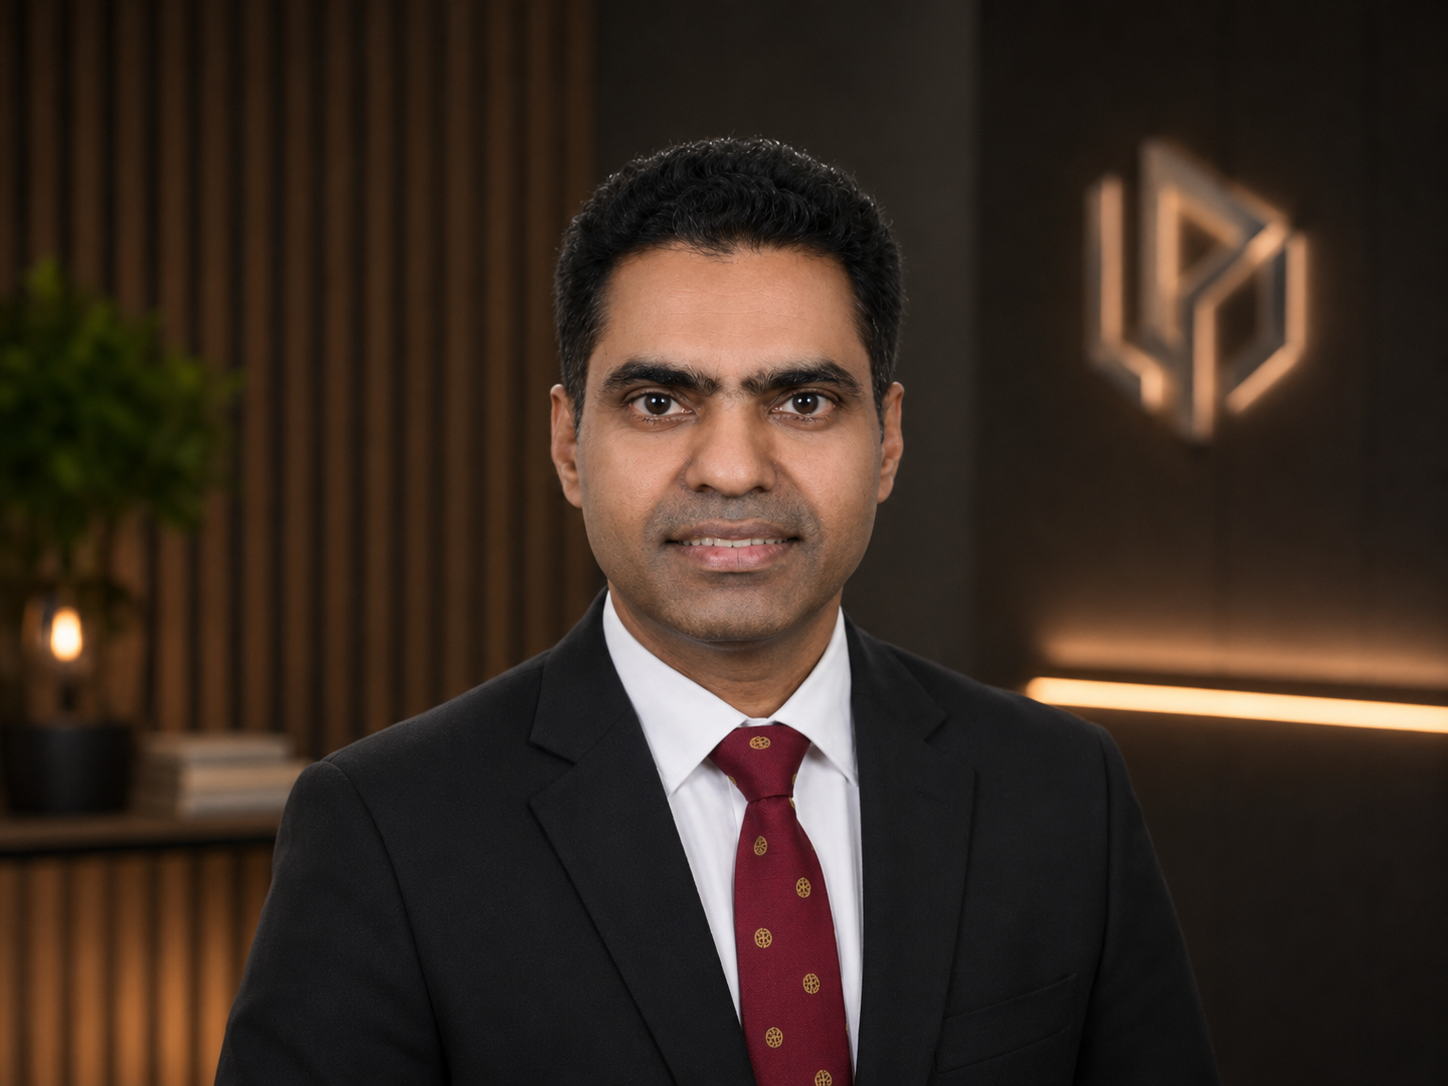
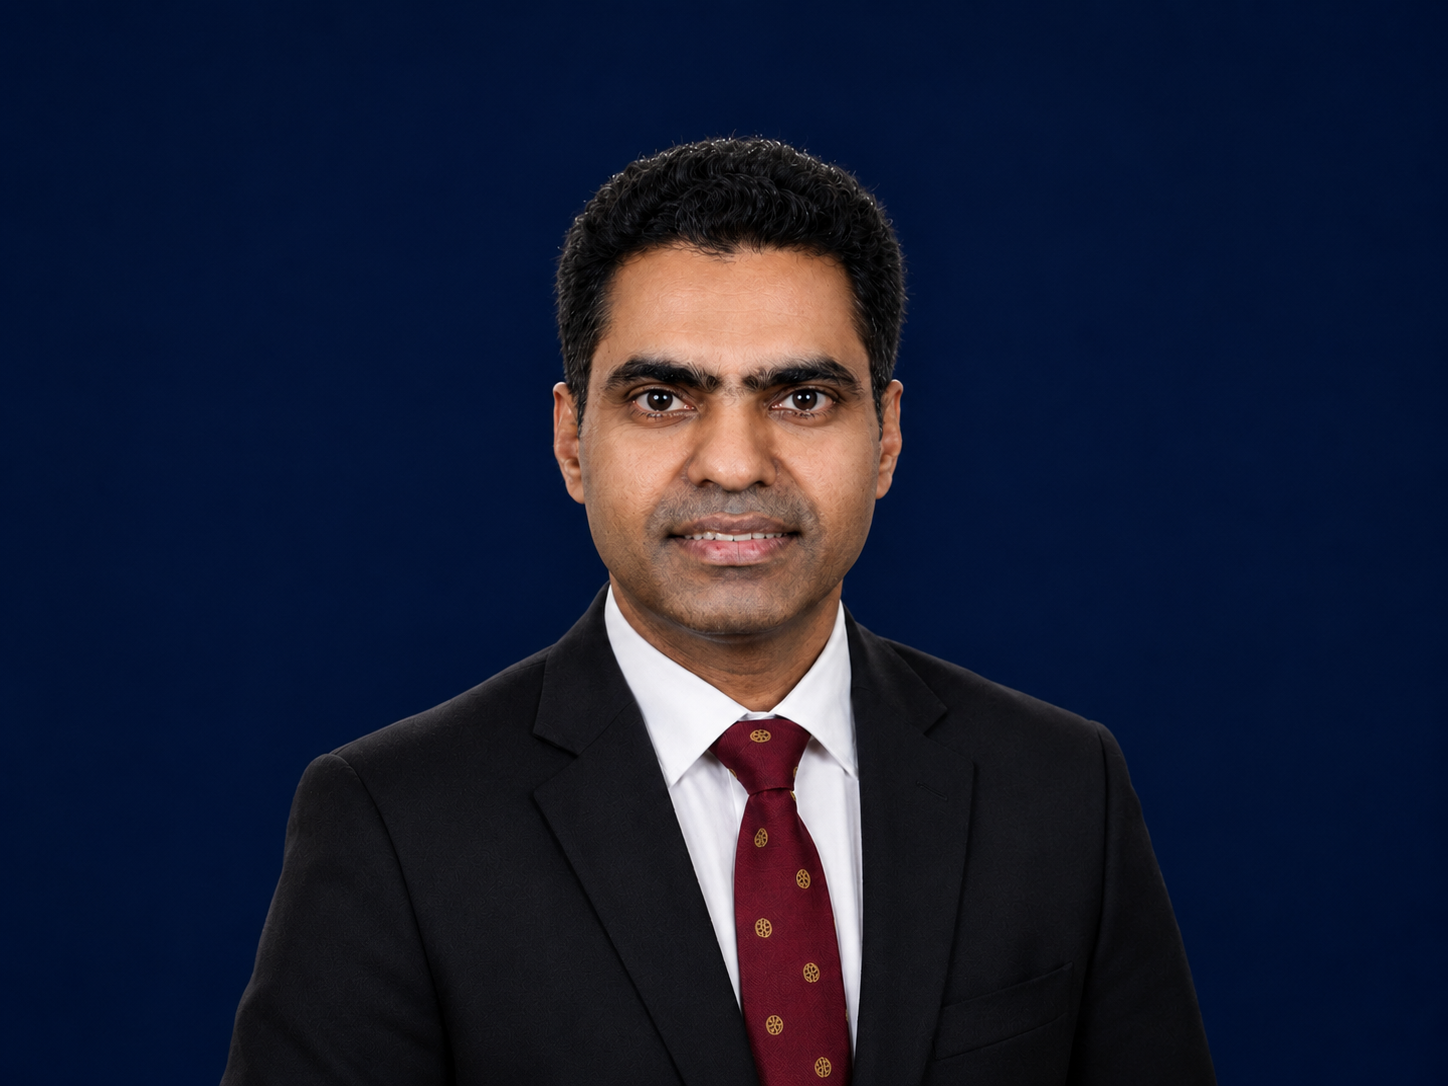
Foudners pictures updated

diff --git a/components/sections/home/final-cta-section.tsx b/components/sections/home/final-cta-section.tsx
@@ -1,13 +1,88 @@
 "use client";
 
-import { ArrowUpRight } from "lucide-react";
+import {
+  ArrowRight,
+  Boxes,
+  Cloud,
+  Database,
+  ShieldCheck,
+  Workflow,
+  type LucideIcon,
+} from "lucide-react";
 import { motion } from "motion/react";
 import { usePrefersReducedMotion } from "@/components/providers/motion-provider";
-import { Background3DShapes } from "@/components/motion/background-3d-shapes";
 import { Button } from "@/components/ui/button";
 import { Container } from "@/components/ui/container";
 
 const ease = [0.22, 1, 0.36, 1] as const;
+
+type Capability = {
+  label: string;
+  Icon: LucideIcon;
+  className: string;
+  drift: { x: number[]; y: number[]; rotate: number[] };
+};
+
+const capabilities: Capability[] = [
+  {
+    label: "Cloud Solutions",
+    Icon: Cloud,
+    className: "left-[2%] top-[19%] h-32 w-32 sm:left-[7%] sm:h-40 sm:w-40",
+    drift: { x: [0, 10, 0], y: [0, -12, 0], rotate: [-8, -2, -8] },
+  },
+  {
+    label: "Cyber Security",
+    Icon: ShieldCheck,
+    className: "right-[6%] top-[6%] h-36 w-36 sm:right-[9%] sm:h-44 sm:w-44",
+    drift: { x: [0, -10, 0], y: [0, 12, 0], rotate: [8, 14, 8] },
+  },
+  {
+    label: "ERP Systems",
+    Icon: Boxes,
+    className: "bottom-[6%] left-[13%] h-32 w-32 sm:bottom-[9%] sm:left-[20%] sm:h-44 sm:w-44",
+    drift: { x: [0, 12, 0], y: [0, 10, 0], rotate: [-12, -5, -12] },
+  },
+  {
+    label: "Data Management",
+    Icon: Database,
+    className: "bottom-[11%] right-[28%] h-32 w-32 sm:bottom-[17%] sm:right-[31%] sm:h-40 sm:w-40",
+    drift: { x: [0, -8, 0], y: [0, -14, 0], rotate: [6, 12, 6] },
+  },
+  {
+    label: "IT Automation",
+    Icon: Workflow,
+    className: "left-[39%] top-[8%] h-28 w-28 sm:left-[43%] sm:top-[4%] sm:h-36 sm:w-36",
+    drift: { x: [0, 7, 0], y: [0, -9, 0], rotate: [-4, 4, -4] },
+  },
+];
+
+function CapabilityCube({ capability, index, reducedMotion }: { capability: Capability; index: number; reducedMotion: boolean }) {
+  const { Icon } = capability;
+
+  return (
+    <motion.div
+      className={`absolute hidden rounded-[1.7rem] border border-blue-300/55 bg-[linear-gradient(145deg,rgb(255_255_255_/_84%),rgb(212_232_255_/_34%))] p-4 shadow-[0_22px_46px_rgb(23_105_224_/_15%),inset_1px_1px_0_rgb(255_255_255_/_92%),inset_-10px_-12px_26px_rgb(23_105_224_/_9%)] backdrop-blur-md sm:block ${capability.className}`}
+      initial={reducedMotion ? false : { opacity: 0, scale: 0.78, rotateX: 18, y: 24 }}
+      whileInView={{ opacity: 1, scale: 1, rotateX: 0, y: 0 }}
+      viewport={{ once: true, amount: 0.25 }}
+      animate={reducedMotion ? undefined : capability.drift}
+      transition={{
+        opacity: { duration: 0.55, delay: index * 0.08, ease },
+        scale: { duration: 0.55, delay: index * 0.08, ease },
+        rotateX: { duration: 0.55, delay: index * 0.08, ease },
+        y: { duration: 0.55, delay: index * 0.08, ease },
+        x: { duration: 6.5 + index * 0.65, repeat: Infinity, ease: "easeInOut" },
+        rotate: { duration: 6.5 + index * 0.65, repeat: Infinity, ease: "easeInOut" },
+      }}
+      style={{ transformPerspective: 900, transformStyle: "preserve-3d" }}
+    >
+      <span aria-hidden="true" className="absolute inset-x-5 top-0 h-px bg-gradient-to-r from-transparent via-blue-500/80 to-transparent" />
+      <span aria-hidden="true" className="absolute -right-3 -top-3 size-10 rounded-xl border border-blue-300/40 bg-white/35 blur-[0.2px]" />
+      <Icon aria-hidden="true" className="size-7 text-[var(--color-blue-600)]" strokeWidth={1.6} />
+      <span className="mt-3 block text-xs font-semibold leading-tight text-[var(--color-navy-900)]">{capability.label}</span>
+    </motion.div>
+  );
+}
 
 export function FinalCtaSection({
   lightOnMobile = false,
@@ -19,94 +94,87 @@ export function FinalCtaSection({
   return (
     <section
       aria-labelledby="final-cta-heading"
-      className={`relative isolate overflow-hidden bg-[linear-gradient(180deg,var(--color-navy-950),var(--color-navy-900))] py-16 md:py-24 ${lightOnMobile ? "about-mobile-light-surface" : ""}`}
+      className={`relative isolate overflow-hidden bg-white py-16 text-[var(--color-navy-900)] sm:py-20 lg:py-28 ${lightOnMobile ? "about-mobile-light-surface" : ""}`}
     >
-      <video
-        aria-hidden="true"
-        autoPlay
-        loop
-        muted
-        playsInline
-        preload="metadata"
-        src="/contact_video.mp4"
-        className="pointer-events-none absolute inset-0 h-full w-full object-cover object-center opacity-80 saturate-[1.08]"
-      />
-      <div
-        aria-hidden="true"
-        className="pointer-events-none absolute inset-0 bg-[linear-gradient(135deg,rgb(5_11_24_/_84%),rgb(7_27_54_/_70%),rgb(5_11_24_/_88%))]"
-      />
-      <Background3DShapes
-        variant="orbits"
-        intensity="medium"
-        className={`opacity-70 max-md:opacity-28 ${lightOnMobile ? "max-md:opacity-12" : ""}`}
-      />
-      <Background3DShapes
-        variant="geometry"
-        intensity="subtle"
-        className={`opacity-50 max-md:opacity-18 ${lightOnMobile ? "max-md:opacity-10" : ""}`}
-      />
-      <motion.span
-        aria-hidden="true"
-        className="pointer-events-none absolute -left-12 top-10 size-36 rounded-[42%] border border-accent/30 bg-accent/[0.06] shadow-[inset_10px_10px_28px_rgb(255_255_255_/_10%),inset_-12px_-12px_32px_rgb(83_50_4_/_26%),0_0_44px_rgb(201_154_50_/_15%)]"
-        animate={reducedMotion ? undefined : { x: [0, 20, 0], y: [0, 16, 0], rotate: [0, 13, 0] }}
-        transition={{ duration: 8, ease: "easeInOut", repeat: Infinity }}
-      />
-      <motion.span
-        aria-hidden="true"
-        className="pointer-events-none absolute -right-16 bottom-0 size-48 rounded-full border border-accent/25 bg-[radial-gradient(circle_at_32%_28%,rgb(255_239_184_/_18%),rgb(201_154_50_/_5%)_48%,transparent_70%)]"
-        animate={reducedMotion ? undefined : { x: [0, -18, 0], y: [0, -22, 0], scale: [1, 1.08, 1] }}
-        transition={{ duration: 9, ease: "easeInOut", repeat: Infinity }}
-      />
-      <motion.svg
-        aria-hidden="true"
-        viewBox="0 0 1200 280"
-        preserveAspectRatio="none"
-        className="pointer-events-none absolute inset-x-0 bottom-0 h-36 text-accent/30"
-      >
-        <motion.path
-          d="M0 208C174 208 210 74 428 120s264 144 430 45 236-61 342-75"
-          fill="none"
-          stroke="currentColor"
-          strokeWidth="1.5"
-          initial={reducedMotion ? false : { pathLength: 0, opacity: 0 }}
-          whileInView={{ pathLength: 1, opacity: 1 }}
-          viewport={{ once: false, amount: 0.2 }}
-          transition={{ duration: reducedMotion ? 0 : 1.1, ease }}
-        />
-      </motion.svg>
+      <div aria-hidden="true" className="absolute inset-0 bg-[radial-gradient(circle_at_8%_24%,rgb(131_185_255_/_28%),transparent_27%),radial-gradient(circle_at_86%_58%,rgb(47_130_245_/_16%),transparent_33%),linear-gradient(135deg,#fff_22%,rgb(239_247_255)_56%,#fff)]" />
+      <div aria-hidden="true" className="absolute inset-0 opacity-40 [background-image:linear-gradient(rgb(23_105_224_/_7%)_1px,transparent_1px),linear-gradient(90deg,rgb(23_105_224_/_7%)_1px,transparent_1px)] [background-size:44px_44px] [mask-image:radial-gradient(ellipse_at_center,black,transparent_72%)]" />
+
+      <svg aria-hidden="true" viewBox="0 0 1200 560" preserveAspectRatio="none" className="pointer-events-none absolute inset-0 h-full w-full text-blue-500/25">
+        <path d="M600 48 800 180 992 96M600 48 414 188 182 126M600 48v236m0 0 222 128 183-76m-405-53L362 430l-174-80" fill="none" stroke="currentColor" strokeWidth="1" />
+        {["600,48", "800,180", "414,188", "600,284", "822,412", "362,430"].map((point) => {
+          const [cx, cy] = point.split(",");
+          return <circle key={point} cx={cx} cy={cy} r="4" fill="currentColor" />;
+        })}
+      </svg>
+
+      <div aria-hidden="true" className="pointer-events-none absolute right-[9%] top-[15%] size-3 rounded-full bg-blue-500/70 shadow-[0_0_26px_rgb(47_130_245_/_75%)]" />
+      <div aria-hidden="true" className="pointer-events-none absolute bottom-[20%] right-[46%] size-2 rounded-full bg-blue-300 shadow-[0_0_22px_rgb(131_185_255_/_90%)]" />
 
       <Container size="wide" className="relative">
-        <motion.div
-          initial={reducedMotion ? false : { opacity: 0, y: 42, rotateX: 7, scale: 0 }}
-          whileInView={{ opacity: 1, y: 0, rotateX: 0, scale: 1 }}
-          viewport={{ once: false, amount: 0.3 }}
-          transition={{ duration: reducedMotion ? 0 : 0.72, ease }}
-          className="about-mobile-dark-card relative overflow-hidden rounded-[2rem] border border-accent/25  sm:px-10 md:px-14 md:py-14"
-          style={{ transformPerspective: 1200, transformOrigin: "50% 60%" }}
-        >
-          <div aria-hidden="true" className="absolute right-[18%] top-0 h-px w-24 bg-[linear-gradient(90deg,transparent,var(--color-gold-300),transparent)]" />
-          <div className="relative grid gap-8 lg:grid-cols-[1fr_auto] lg:items-end lg:gap-14">
-            <div>
-              <p className="text-sm font-semibold uppercase tracking-[0.2em] text-accent">
-                Ready to go digital?
-              </p>
-              <h2 id="final-cta-heading" className="mt-4 max-w-2xl text-[clamp(2.4rem,5vw,4.75rem)]">
-                Let&apos;s discuss.
-              </h2>
-              <p className="mt-5 max-w-xl text-base leading-relaxed text-blue-200 sm:text-lg">
-                Share your next challenge with InnovGen and we&apos;ll help shape a secure, scalable way forward.
-              </p>
+        <div className="grid items-center gap-12 lg:grid-cols-[minmax(0,0.86fr)_minmax(30rem,1.14fr)] lg:gap-8">
+          <motion.div
+            initial={reducedMotion ? false : { opacity: 0, y: 26 }}
+            whileInView={{ opacity: 1, y: 0 }}
+            viewport={{ once: true, amount: 0.3 }}
+            transition={{ duration: reducedMotion ? 0 : 0.62, ease }}
+            className="relative z-10 max-w-xl"
+          >
+            <p className="text-sm font-bold uppercase tracking-[0.2em] text-[var(--color-blue-600)]">Ready to go digital?</p>
+            <h2 id="final-cta-heading" className="mt-4 font-[family-name:var(--font-outfit)] text-5xl font-semibold tracking-[-0.05em] text-[var(--color-navy-900)] sm:text-6xl lg:text-7xl">
+              Let&apos;s discuss.
+            </h2>
+            <p className="mt-5 max-w-lg text-base leading-7 text-[color-mix(in_srgb,var(--color-navy-900)_72%,white)] sm:text-lg">
+              Share your next technology challenge with InnovGen. Together, we&apos;ll turn it into a secure, scalable way forward.
+            </p>
+            <div className="mt-8 flex flex-wrap gap-3">
+             
+              <Button href="/consultation" variant="secondary" size="lg" className=" border-blue-300/70 bg-white/65 text-[var(--color-navy-900)] shadow-[inset_0_1px_0_rgb(255_255_255_/_92%),0_10px_24px_rgb(23_105_224_/_8%)] backdrop-blur-md   hover:text-white hover:shadow-[inset_0_1px_0_rgb(255_255_255_/_92%),0_10px_24px_rgb(23_105_224_/_12%)] focus-visible:outline-blue-500/70 focus-visible:ring-2 focus-visible:ring-blue-500/70 focus-visible:ring-offset-2 focus-visible:ring-offset-white/70 dark:border-blue-300/50 dark:bg-white/20 dark:text-white dark:shadow-[inset_0_1px_0_rgb(255_255_255_/_32%),0_10px_24px_rgb(23_105_224_/_8%)]  dark:hover:text-white  ">
+               Let Go digital
+                                <ArrowRight aria-hidden="true" className="size-4 transition-transform group-hover:translate-x-1" />
+
+              </Button> 
             </div>
-            <Button
-              href="/consultation"
-              size="lg"
-              className="group w-fit border border-accent/35 bg-[var(--color-gold-500)] text-[var(--color-navy-950)] shadow-[0_14px_34px_rgb(201_154_50_/_22%),inset_0_1px_0_rgb(255_255_255_/_32%)] hover:bg-[var(--color-gold-300)]"
-            >
-              Request a quote
-              <ArrowUpRight aria-hidden="true" className="size-4 transition-transform group-hover:translate-x-0.5 group-hover:-translate-y-0.5" />
-            </Button>
-          </div>
-        </motion.div>
+          </motion.div>
+
+          <motion.div
+            initial={reducedMotion ? false : { opacity: 0, scale: 0.94, rotateX: 5 }}
+            whileInView={{ opacity: 1, scale: 1, rotateX: 0 }}
+            viewport={{ once: true, amount: 0.2 }}
+            transition={{ duration: reducedMotion ? 0 : 0.75, delay: 0.08, ease }}
+            className="relative mx-auto h-[23rem] w-full max-w-[42rem] [perspective:1000px] sm:h-[29rem]"
+          >
+            <div aria-hidden="true" className="absolute inset-[19%_14%_17%] rounded-full bg-[radial-gradient(circle,rgb(47_130_245_/_20%),transparent_67%)] blur-2xl" />
+            {capabilities.map((capability, index) => (
+              <CapabilityCube key={capability.label} capability={capability} index={index} reducedMotion={reducedMotion} />
+            ))}
+            <div className="absolute inset-0 grid place-items-center sm:hidden">
+              <div className="grid w-full grid-cols-2 gap-3 px-3">
+                {capabilities.map(({ label, Icon }, index) => (
+                  <motion.div
+                    key={label}
+                    initial={reducedMotion ? false : { opacity: 0, y: 16 }}
+                    whileInView={{ opacity: 1, y: 0 }}
+                    viewport={{ once: true }}
+                    transition={{ duration: reducedMotion ? 0 : 0.4, delay: index * 0.06, ease }}
+                    className="rounded-2xl border border-blue-300/55 bg-white/70 p-4 shadow-[0_12px_28px_rgb(23_105_224_/_10%),inset_1px_1px_0_rgb(255_255_255_/_92%)] backdrop-blur"
+                  >
+                    <Icon aria-hidden="true" className="size-6 text-[var(--color-blue-600)]" strokeWidth={1.6} />
+                    <p className="mt-3 text-sm font-semibold text-[var(--color-navy-900)]">{label}</p>
+                  </motion.div>
+                ))}
+              </div>
+            </div>
+            {["left-[11%] top-[12%]", "right-[5%] bottom-[9%]", "left-[46%] bottom-[4%]"].map((position, index) => (
+              <motion.span
+                key={position}
+                aria-hidden="true"
+                className={`absolute hidden size-6 rounded-lg border border-blue-300/50 bg-white/35 shadow-[inset_1px_1px_0_rgb(255_255_255_/_90%),0_10px_22px_rgb(23_105_224_/_14%)] backdrop-blur sm:block ${position}`}
+                animate={reducedMotion ? undefined : { y: [0, -10 - index * 3, 0], rotate: [0, 16, 0] }}
+                transition={{ duration: 5 + index, repeat: Infinity, ease: "easeInOut" }}
+              />
+            ))}
+          </motion.div>
+        </div>
       </Container>
     </section>
   );

diff --git a/components/layout/app-preloader.tsx b/components/layout/app-preloader.tsx
@@ -2,18 +2,15 @@
 
 import { useEffect, useState } from "react";
 import { AnimatePresence, motion } from "motion/react";
-import { usePathname } from "next/navigation";
 import { usePrefersReducedMotion } from "@/components/providers/motion-provider";
 
-const loaderDuration = 3_000;
-const handoffDuration = 700;
+const loaderDuration = 1_200;
+const handoffDuration = 450;
 const loaderEase = [0.22, 1, 0.36, 1] as const;
-const loaderWords = ["MODERN", "ICONIC", "AI", "TECHNOLOGY", "PREMIUM" , "INNOVATIVE", "FUTURE", "SUSTAINABLE", "EXPERIENCE", "INNOVGEN"];
+const loaderWords = ["MODERN", "ICONIC", "AI", "TECHNOLOGY", "PREMIUM" , "INNOVATIVE"];
  
 export function AppPreloader() {
-  const pathname = usePathname();
-
-  return <AppPreloaderScreen key={pathname} />;
+  return <AppPreloaderScreen />;
 }
 
 function AppPreloaderScreen() {
@@ -31,7 +28,7 @@ function AppPreloaderScreen() {
 
     document.body.classList.add("preloader-active");
     document.body.style.overflow = "hidden";
-    document.body.style.backgroundColor = "#eaf4ff";
+    document.body.style.backgroundColor = "#0d72de";
     videos.forEach((video) => video.pause());
 
     const finishId = window.setTimeout(() => {
@@ -80,7 +77,7 @@ function AppPreloaderScreen() {
           role="status"
           initial={reducedMotion ? false : { opacity: 0 }}
           animate={{ opacity: 1, y: isCompleting && !reducedMotion ? "-100%" : 0 }}
-          exit={{ opacity: 0 }}
+          exit={{ opacity: 0, transition: { duration: 0 } }}
           transition={{ duration: reducedMotion ? 0 : handoffDuration / 1000, ease: loaderEase }}
           className="fixed inset-0 z-[200] grid place-items-center bg-[var(--color-blue-600)] p-6 will-change-transform"
         >
@@ -110,14 +107,15 @@ function AppPreloaderScreen() {
                   > 
                     {loaderWords[activeWordIndex]}
                   </motion.p>
+                
+
                 </AnimatePresence>
               </div>
 
             </motion.div>
 
           </div>
-          <span className="sr-only">Loading InnovGen</span>
-
+  
         </motion.div>
       ) : null}
     </AnimatePresence>
